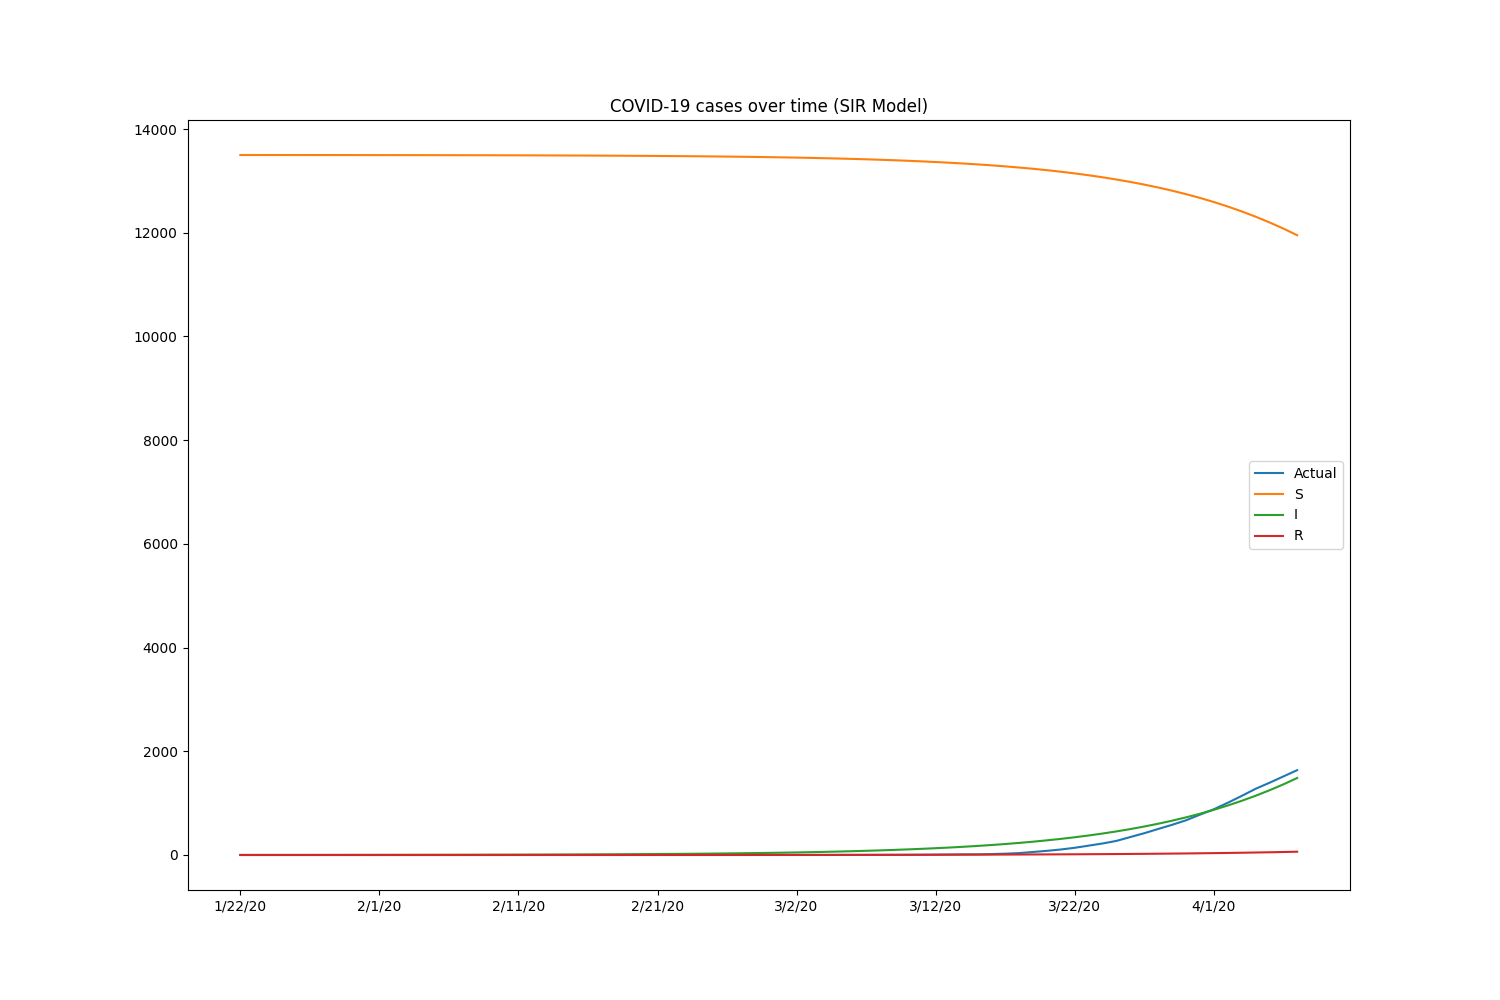
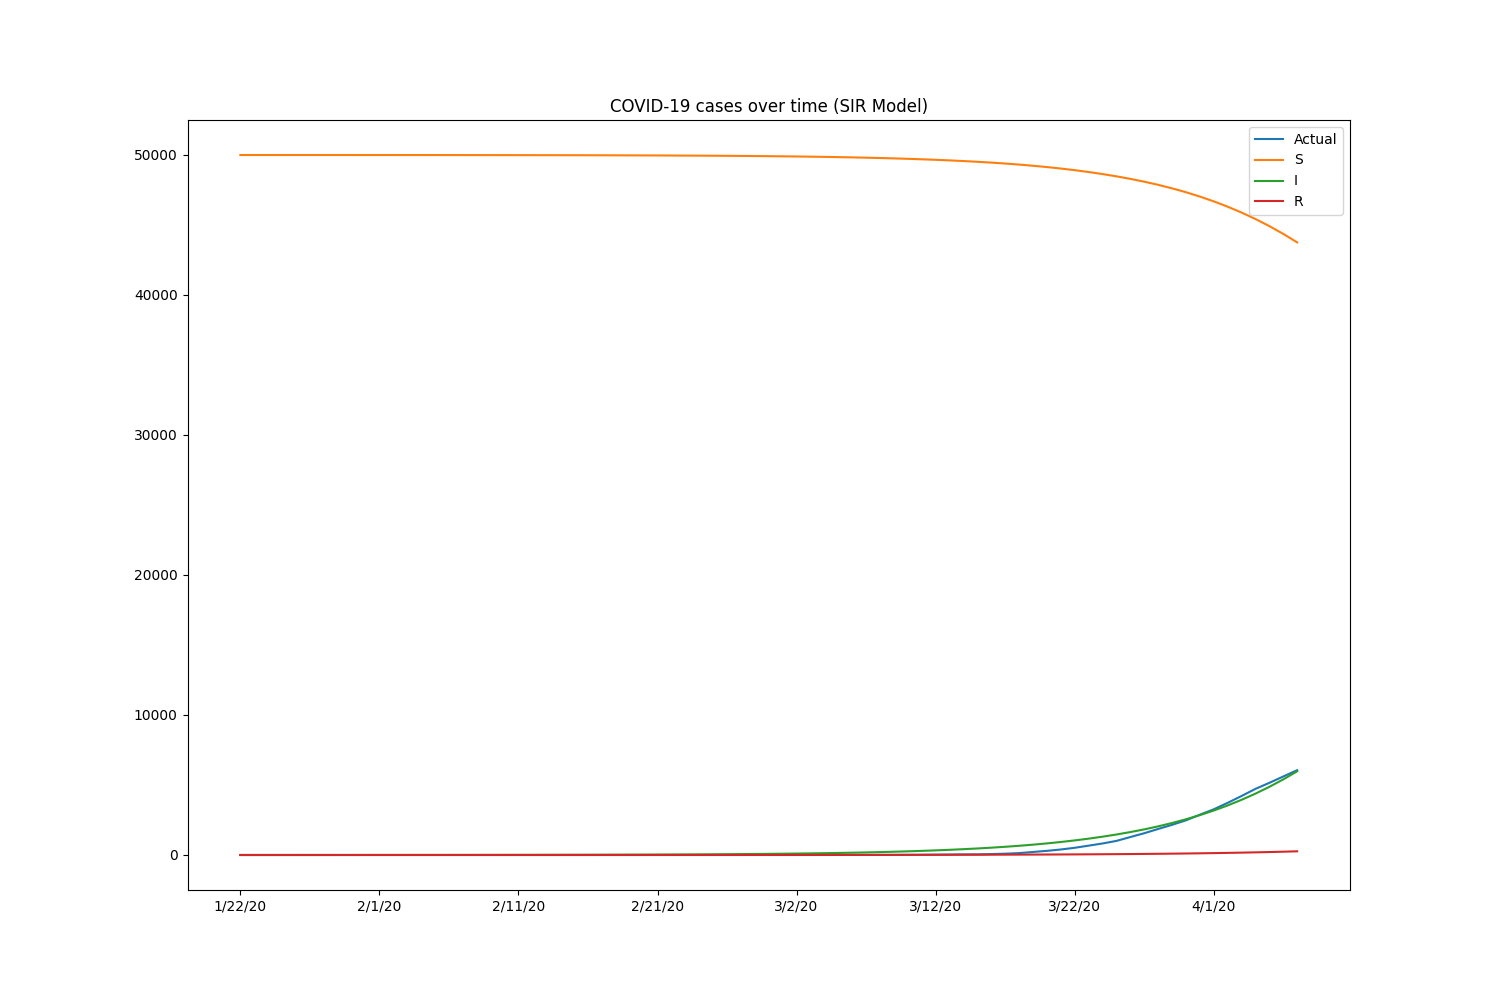
updated some stuff

diff --git a/solver2.py b/solver2.py
@@ -8,7 +8,6 @@ from scipy.optimize import minimize
 import argparse
 import os
 
-# TODO - Parse arguments for different model options
 parser = argparse.ArgumentParser()
 
 parser.add_argument('--mode', '-m', dest = 'mode', help = 'change the mode of the model (SIR, Linear, ESIR, SEIR); default: SIR', default = 'SIR', choices = ['SIR', 'Linear', 'ESIR', 'SEIR'])
@@ -20,16 +19,17 @@ parser.add_argument('--start', '-s', dest = 'start', default = '1/22/20', help =
 parser.add_argument('--end', '-e', dest = 'end', default = None, help = 'the date where the data stops (defaults to whereever the input data ends)')
 parser.add_argument('--incubation', '-i', dest = 'incubation_period', default = None, help = 'the incubation period of the disease (only applicable if using SIRE model; ignored otherwise); none by default')
 parser.add_argument('--predict', '-p', dest = 'prediction_range', default = None, help = 'the number of days to predict the course of the disease (defaults to None, meaning the model will not predict beyond the given data)')
+parser.add_argument('--country', '-c', dest = 'country', default = 'US', help = 'the country that is being modeled (defaults to US)')
+parser.add_argument('--population', '-P', dest = 'population', default = '10000', help = 'the population of the model (defaults to 10000)')
 args = parser.parse_args()
 
-S_0 = 13500/13501
-I_0 = 1/13501
-R_0 = 0 # Both are equal to 0/13501
-E_0 = 0 # Both are equal to 0/13501
+S_0 = (int(args.population) - 1) / int(args.population)
+I_0 = 1 / int(args.population)
+R_0 = 0
+E_0 = 0
 
-# Running a model for 3.27  million population is quite hard, so here we've reduced the population to 13.5 thousand people, and modified
-# the actual stats to match
-correction_factor = 13502/3270000 if args.disease == 'COVID-19' else 1
+# Running a model for a million population is quite hard, so here we've reduced the population and modified the actual stats to match
+correction_factor = int(args.population) / 3270000 if args.country == 'US' else int(args.population) / 63710000 if args.country == 'Hong_Kong' else 1
 
 class Learner(object):
 	def __init__(self, country):
@@ -45,7 +45,7 @@ class Learner(object):
 		if args.end != None:
 			confirmed_sums = np.sum([reg.loc[args.start:args.end].values for reg in country_df.iloc], axis = 0)
 		else:
-			confirmed_sums = np.sum([reg.loc[args.start:].values for reg in country_df.iloc], axis = 0)
+			confirmed_sums = np.sum([reg.loc[[args.start:]].values for reg in country_df.iloc], axis = 0)
 		
 		if args.end != None:
 			new_data = pd.DataFrame(confirmed_sums, country_df.iloc[0].loc[args.start:args.end].index.tolist())
@@ -155,7 +155,7 @@ class Learner(object):
 			beta, gamma = optimal.x
 			print(f'Beta: {beta}, Gamma: {gamma}, R0: {beta/gamma}')
 			new_index, extended_actual, prediction = self.predict(confirmed_data, beta = beta, gamma = gamma)
-			print(f'Predicted I: {prediction.y[1][-1] * 13500}, Actual I: {extended_actual[-1] * correction_factor}')
+			print(f'Predicted I: {prediction.y[1][-1] * int(args.population)}, Actual I: {extended_actual[-1] * correction_factor}')
 			df = compose_df(prediction, extended_actual, correction_factor, new_index)
 			with open(f'out/{args.disease}-data.csv', 'w+') as file:
 				file.write(f'Beta: {beta}\nGamma: {gamma}\nR0: {beta/gamma}')
@@ -170,7 +170,7 @@ class Learner(object):
 			beta, gamma = optimal.x
 			print(f'Beta: {beta}, Gamma: {gamma}, R0: {beta/gamma}')
 			new_index, extended_actual, prediction = self.predict(confirmed_data, beta = beta, gamma = gamma)
-			print(f'Predicted I: {prediction.y[1][-1] * 13500}, Actual I: {extended_actual[-1] * correction_factor}')
+			print(f'Predicted I: {prediction.y[1][-1] * int(args.population)}, Actual I: {extended_actual[-1] * correction_factor}')
 			df = compose_df(prediction, extended_actual, correction_factor, new_index)
 			with open(f'out/{args.disease}-data.csv', 'w+') as file:
 				file.write(f'Beta: {beta}\nGamma: {gamma}\nR0: {beta/gamma}')
@@ -185,7 +185,7 @@ class Learner(object):
 			beta, gamma, mu = optimal.x
 			print(f'Beta: {beta}, Gamma: {gamma}, Mu: {mu} R0: {beta/(gamma + mu)}')
 			new_index, extended_actual, prediction = self.predict(confirmed_data, beta = beta, gamma = gamma, mu = mu)
-			print(f'Predicted I: {prediction.y[1][-1] * 13500}, Actual I: {extended_actual[-1] * correction_factor}')
+			print(f'Predicted I: {prediction.y[1][-1] * int(args.population)}, Actual I: {extended_actual[-1] * correction_factor}')
 			df = compose_df(prediction, extended_actual, correction_factor, new_index)
 			with open(f'out/{args.disease}-data.csv', 'w+') as file:
 				file.write(f'Beta: {beta}\nGamma: {gamma}\nMu: {mu}\nR0: {beta/(gamma + mu)}')
@@ -202,7 +202,7 @@ class Learner(object):
 			beta, gamma, mu, sigma = optimal.x
 			print(f'Beta: {beta}, Gamma: {gamma}, Mu: {mu}, Sigma: {sigma} R0: {(beta * sigma)/((mu + gamma) * (mu + sigma))}')
 			new_index, extended_actual, prediction = self.predict(confirmed_data, beta = beta, gamma = gamma, mu = mu)
-			print(f'Predicted I: {prediction.y[1][-1] * 13500}, Actual I: {extended_actual[-1] * correction_factor}')
+			print(f'Predicted I: {prediction.y[1][-1] * int(args.population)}, Actual I: {extended_actual[-1] * correction_factor}')
 			df = compose_df(prediction, extended_actual, correction_factor, new_index)
 			with open(f'out/{args.disease}-data.csv', 'w+') as file:
 				file.write(f'Beta: {beta}\nGamma: {gamma}\nMu: {mu}\nSigma: {sigma}\nR0: {(beta * sigma)/((mu + gamma) * (mu + sigma))}')
@@ -226,13 +226,13 @@ def compose_df(prediction, actual, correction_factor, index):
 		if data == 'Actual':
 			df_dict['Actual'] = filter_zeroes(actual * correction_factor)
 		elif data == 'S':
-			df_dict['S'] = prediction.y[0] * 13500
+			df_dict['S'] = prediction.y[0] * int(args.population)
 		elif data == 'I':
-			df_dict['I'] = prediction.y[1] * 13500
+			df_dict['I'] = prediction.y[1] * int(args.population)
 		elif data == 'R':
-			df_dict['R'] = prediction.y[2] * 13500
+			df_dict['R'] = prediction.y[2] * int(args.population)
 		elif data == 'E':
-			df_dict['E'] = prediction.y[3] * 13500
+			df_dict['E'] = prediction.y[3] * int(args.population)
 
 	return pd.DataFrame(df_dict, index=index)
 
@@ -247,8 +247,8 @@ def loss_linear(point, confirmed, recovered):
 		R = y[2]
 		return [-beta * S, beta * S - gamma * I, gamma * I]
 	solution = solve_ivp(model, [0, size], [S_0,I_0,R_0], t_eval=np.arange(0, size, 1), vectorized=True)
-	sol_inf = np.sqrt(np.mean((solution.y[1] - (confirmed.values.flatten() * correction_factor/13500))**2))
-	sol_rec = np.sqrt(np.mean((solution.y[2] - (recovered.values * correction_factor/13500))**2))
+	sol_inf = np.sqrt(np.mean((solution.y[1] - (confirmed.values.flatten() * correction_factor/int(args.population)))**2))
+	sol_rec = np.sqrt(np.mean((solution.y[2] - (recovered.values * correction_factor/int(args.population)))**2))
 	return sol_inf * 0.5 + sol_rec * 0.5
 
 def loss_sir(point, confirmed, recovered):
@@ -260,8 +260,8 @@ def loss_sir(point, confirmed, recovered):
 		R = y[2]
 		return [-beta * S * I, beta * S * I - gamma * I, gamma * I]
 	solution = solve_ivp(model, [0, size], [S_0,I_0,R_0], t_eval=np.arange(0, size, 1), vectorized=True)
-	sol_inf = np.sqrt(np.mean((solution.y[1] - (confirmed.values.flatten() * correction_factor/13500))**2))
-	sol_rec = np.sqrt(np.mean((solution.y[2] - (recovered.values * correction_factor/13500))**2))
+	sol_inf = np.sqrt(np.mean((solution.y[1] - (confirmed.values.flatten() * correction_factor/int(args.population)))**2))
+	sol_rec = np.sqrt(np.mean((solution.y[2] - (recovered.values * correction_factor/int(args.population)))**2))
 	return sol_inf * 0.5 + sol_rec * 0.5
 
 def loss_esir(point, confirmed, recovered):
@@ -273,8 +273,8 @@ def loss_esir(point, confirmed, recovered):
 		R = y[2]
 		return [mu - beta * S * I - mu * S, beta * S * I - gamma * I - mu * I, gamma * I - mu * R]
 	solution = solve_ivp(model, [0, size], [S_0,I_0,R_0], t_eval=np.arange(0, size, 1), vectorized=True)
-	sol_inf = np.sqrt(np.mean((solution.y[1] - (confirmed.values.flatten() * correction_factor/13500))**2))
-	sol_rec = np.sqrt(np.mean((solution.y[2] - (recovered.values * correction_factor/13500))**2))
+	sol_inf = np.sqrt(np.mean((solution.y[1] - (confirmed.values.flatten() * correction_factor/int(args.population)))**2))
+	sol_rec = np.sqrt(np.mean((solution.y[2] - (recovered.values * correction_factor/int(args.population)))**2))
 	return sol_inf * 0.5 + sol_rec * 0.5
 
 def loss_seir(point, confirmed, recovered, exposed):
@@ -287,10 +287,10 @@ def loss_seir(point, confirmed, recovered, exposed):
 		E = y[3]
 		return [mu - beta * S * I - mu * S, beta * S * I - sigma * E - mu * E, sigma * E * I - gamma * I - mu * I, gamma * I - mu * R]
 	solution = solve_ivp(model, [0, size], [S_0,E_0,I_0,R_0], t_eval=np.arange(0, size, 1), vectorized=True)
-	sol_inf = np.sqrt(np.mean((solution.y[1] - (confirmed.values.flatten() * correction_factor/13500))**2))
-	sol_rec = np.sqrt(np.mean((solution.y[2] - (recovered.values * correction_factor/13500))**2))
-	sol_exp = np.sqrt(np.mean((solution.y[3] - (exposed.values * correction_factor/13500))**2))
+	sol_inf = np.sqrt(np.mean((solution.y[1] - (confirmed.values.flatten() * correction_factor/int(args.population)))**2))
+	sol_rec = np.sqrt(np.mean((solution.y[2] - (recovered.values * correction_factor/int(args.population)))**2))
+	sol_exp = np.sqrt(np.mean((solution.y[3] - (exposed.values * correction_factor/int(args.population)))**2))
 	return sol_inf/3 + sol_rec/3 + sol_exp/3
 
-my_learner = Learner('Hong_Kong')
+my_learner = Learner(args.country)
 my_learner.train()
